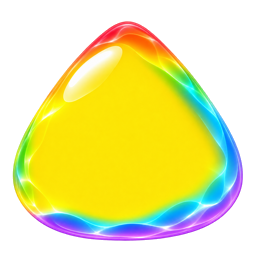
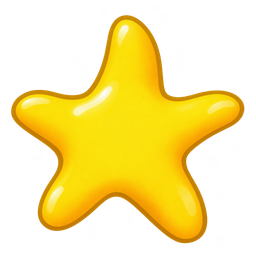
[feat] V2-W2-09 우주·바다 블록 모양 교체

diff --git a/src/view/theme/themes.ts b/src/view/theme/themes.ts
@@ -7,10 +7,11 @@ import { DEFAULT_THEME, isThemeId, type ThemeId } from '../../data/themeIds';
 
 export { DEFAULT_THEME, isThemeId, parseThemeId, type ThemeId } from '../../data/themeIds';
 
-/** 몸통 그림 한 장: 경로, 시안 좌표 100칸 대비 크기 배율, 얼굴을 내리는 정도와 줄이는 배율 (DECOR.blockArt와 같은 뜻) */
+/** 몸통 그림 한 장: 경로, 시안 좌표 100칸 대비 크기 배율, 얼굴을 내리는 정도와 줄이는 배율 (DECOR.blockArt와 같은 뜻). faceDx는 몸통이 한쪽으로 치우친 모양만 쓴다 (없으면 0) */
 export interface BlockArt {
   url: string;
   scale: number;
+  faceDx?: number;
   faceDy: number;
   faceScale: number;
 }
@@ -25,16 +26,38 @@ export interface Theme {
   background: { url: string; band: { top: number; bottom: number } };
 }
 
-/** 새 테마의 파일은 빨·주·노·초·파·보·무지개 순(block-0~6). 게임의 색 번호(빨·노·초·파·보·주)에 맞춰 늘어놓는다 */
+/** 새 테마의 파일은 빨·주·노·초·파·보·무지개 순(block-0~6). 배치 값(art)도 파일 순서로 받아, 게임의 색 번호(빨·노·초·파·보·주)에 맞춰 늘어놓는다 */
 const byColor = (dir: string, art: Omit<BlockArt, 'url'>[]): BlockArt[] =>
-  [0, 2, 3, 4, 5, 1, 6].map((file, color) => ({
+  [0, 2, 3, 4, 5, 1, 6].map((file) => ({
     url: `themes/${dir}/block-${file}.png`,
-    ...art[color]!,
+    ...art[file]!,
   }));
 
-/** 그림이 비슷한 모양이라 일단 같은 배치. 눈으로 보고 테마마다 맞춘다 */
+/** 사탕처럼 그림이 비슷한 모양이면 7장 모두 같은 배치 */
 const same = (scale: number, faceDy: number, faceScale: number): Omit<BlockArt, 'url'>[] =>
   Array.from({ length: 7 }, () => ({ scale, faceDy, faceScale }));
+
+/** 우주: 혜성·태양·별·UFO·고리 행성·달(파일 순서) + 무지개. 얼굴이 몸통(혜성 머리·UFO 접시·달 두꺼운 쪽) 안에 들어가게 맞춘다 */
+const SPACE_ART: Omit<BlockArt, 'url'>[] = [
+  { scale: 1, faceDx: 7, faceDy: 9, faceScale: 0.68 },
+  { scale: 1, faceDy: 1, faceScale: 0.78 },
+  { scale: 1, faceDy: 5, faceScale: 0.62 },
+  { scale: 1, faceDy: 6, faceScale: 0.62 },
+  { scale: 1, faceDy: 2, faceScale: 0.7 },
+  { scale: 1, faceDx: -8, faceDy: 6, faceScale: 0.62 },
+  { scale: 1, faceDy: 0, faceScale: 0.85 },
+];
+
+/** 바다: 게·조개·불가사리·거북·물고기·해파리(파일 순서) + 무지개 */
+const OCEAN_ART: Omit<BlockArt, 'url'>[] = [
+  { scale: 1, faceDy: 3, faceScale: 0.7 },
+  { scale: 1, faceDy: 5, faceScale: 0.72 },
+  { scale: 1, faceDy: 4, faceScale: 0.62 },
+  { scale: 1, faceDx: -2, faceDy: 0, faceScale: 0.7 },
+  { scale: 1, faceDx: -8, faceDy: 2, faceScale: 0.62 },
+  { scale: 1, faceDy: -6, faceScale: 0.7 },
+  { scale: 1, faceDy: 7, faceScale: 0.8 },
+];
 
 export const THEMES: readonly Theme[] = [
   { id: 'storybook', name: '그림책', blocks: DECOR.blockArt, background: DECOR.storybook },
@@ -47,13 +70,13 @@ export const THEMES: readonly Theme[] = [
   {
     id: 'space',
     name: '우주',
-    blocks: byColor('space', same(1, 0, 0.85)),
+    blocks: byColor('space', SPACE_ART),
     background: { url: 'themes/space/bg.jpg', band: { top: 260, bottom: 1230 } },
   },
   {
     id: 'ocean',
     name: '바다',
-    blocks: byColor('ocean', same(1, 7, 0.8)),
+    blocks: byColor('ocean', OCEAN_ART),
     background: { url: 'themes/ocean/bg.jpg', band: { top: 300, bottom: 1040 } },
   },
 ];

diff --git a/tests/view/themes.test.ts b/tests/view/themes.test.ts
@@ -47,6 +47,27 @@ describe('view/theme/themes 목록', () => {
     expect(files).toEqual([0, 2, 3, 4, 5, 1, 6]);
   });
 
+  it.each(['space', 'ocean'] as const)(
+    '%s: 색마다 다른 모양 그림(block-0~5)이 게임 색 번호 순서로 놓이고 배치 값이 상식 범위',
+    (id) => {
+      const { blocks } = getTheme(id);
+      // 게임 색 빨·노·초·파·보·주 ↔ 파일 0·2·3·4·5·1, 마지막은 무지개(6)
+      expect(blocks.map((b) => b.url)).toEqual(
+        [0, 2, 3, 4, 5, 1, 6].map((n) => `themes/${id}/block-${n}.png`),
+      );
+      blocks.forEach((b) => {
+        for (const v of [b.scale, b.faceScale]) expect(Number.isFinite(v) && v > 0).toBe(true);
+        expect(Number.isFinite(b.faceDy)).toBe(true);
+        expect(Number.isFinite(b.faceDx ?? 0)).toBe(true);
+        expect(Math.abs(b.faceDx ?? 0)).toBeLessThanOrEqual(15);
+      });
+      // 색마다 배치를 따로 맞췄다 (7장 공통 배치가 아니다)
+      expect(
+        new Set(blocks.slice(0, 6).map((b) => `${b.faceDx ?? 0}/${b.faceDy}/${b.faceScale}`)).size,
+      ).toBeGreaterThan(3);
+    },
+  );
+
   it('모든 테마 그림 경로가 서로 다르다 (읽을 때 키가 겹치지 않게)', () => {
     const urls = THEMES.flatMap((t) => [t.background.url, ...t.blocks.map((b) => b.url)]);
     expect(new Set(urls).size).toBe(urls.length);

diff --git a/src/view/theme/textures.ts b/src/view/theme/textures.ts
@@ -167,7 +167,7 @@ function drawArtBlock(ctx: Ctx, { image, place }: Art, face: Face): void {
   ctx.imageSmoothingQuality = 'high';
   ctx.drawImage(image, -half, -half, half * 2, half * 2);
   ctx.save();
-  ctx.translate(0, place.faceDy);
+  ctx.translate(place.faceDx ?? 0, place.faceDy);
   ctx.scale(place.faceScale, place.faceScale);
   drawFace(ctx, face);
   ctx.restore();

diff --git a/public/themes/CREDITS.md b/public/themes/CREDITS.md
@@ -12,6 +12,7 @@
 - **candy**: 광택 있는 말랑한 젤리 사각형 + 곡선 무지개 띠. 분홍 설탕 언덕, 사탕집과 막대사탕을 위·아래 가장자리에 두고 가운데는 연분홍으로 비운 배경
 - **space**: 굴절광과 은은한 내부 빛이 있는 유리 구슬 + 곡선 무지개 띠. 남보라 밤하늘의 별·행성·성운을 위·아래 가장자리에 두고 가운데는 비운 배경
 - **ocean**: 윗부분이 뾰족하고 아래가 넓은 바다유리 물방울(우주 구슬과 구별) + 물결 무지개 띠. 수면·햇살·해초·산호·조개를 가장자리에 두고 가운데는 바닷물색으로 비운 배경
+- **space·ocean block-0~5 교체본 (2026-11-06, Codex(OpenAI) 생성)**: 색마다 다른 모양으로 교체. 우주 = 혜성·태양·별·UFO·고리 행성·달, 바다 = 게·조개·불가사리·거북·물고기·해파리. 해당 색 계열 단색 테두리(무지개 테두리 없음), 가운데는 코드 얼굴 자리. block-6 무지개는 그대로. 원본 `assets/theme-src/<테마>/block-{0..5}.png`, 자세한 기록은 `.codex-out/V2-W2-07-shapes-image.md` (gitignore, 로컬)
 - 공통: 블록은 정면, 같은 크기, 좌상단 광원, 가운데는 코드 얼굴을 위해 단순하게, 투명 배경. 기존 게임·캐릭터·브랜드를 닮지 않게. 자세한 기록은 `.codex-out/V2-W2-06-image.md` (gitignore, 로컬)
 - 변환: 블록 PNG는 그대로. 배경은 macOS `sips`로 JPEG(품질 85) 변환
 
